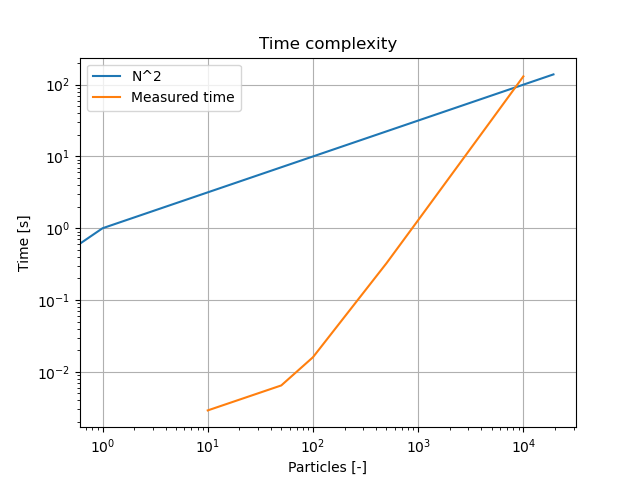
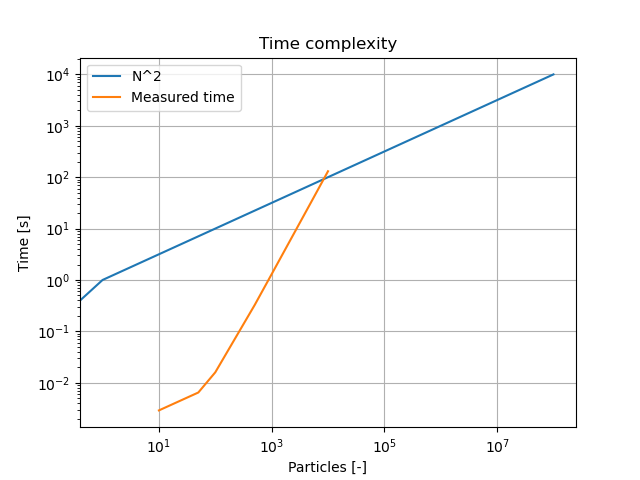
A3, plotting

diff --git a/A3/plotting.py b/A3/plotting.py
@@ -1,8 +1,8 @@
 import matplotlib.pyplot as plt
 
 N = [10, 50, 100, 500, 1000, 5000, 10000]
-N_2 = [e**2 for e in range(140)]
-t = range(140)
+N_2 = [e**2 for e in range(10000)]
+t = range(10000)
 time = [0.002901, 0.006463, 0.015964, 0.325657, 1.295745, 32.431196, 130.429485]
 
 plt.loglog(N_2, t)
